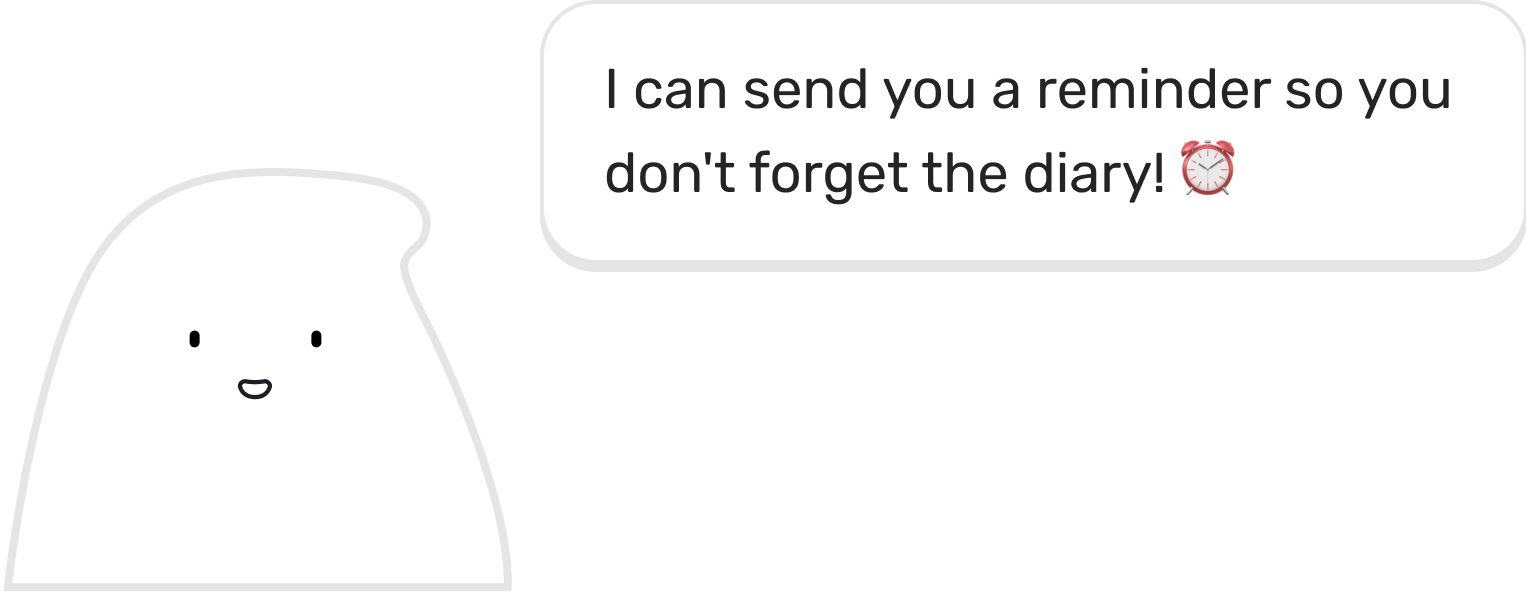
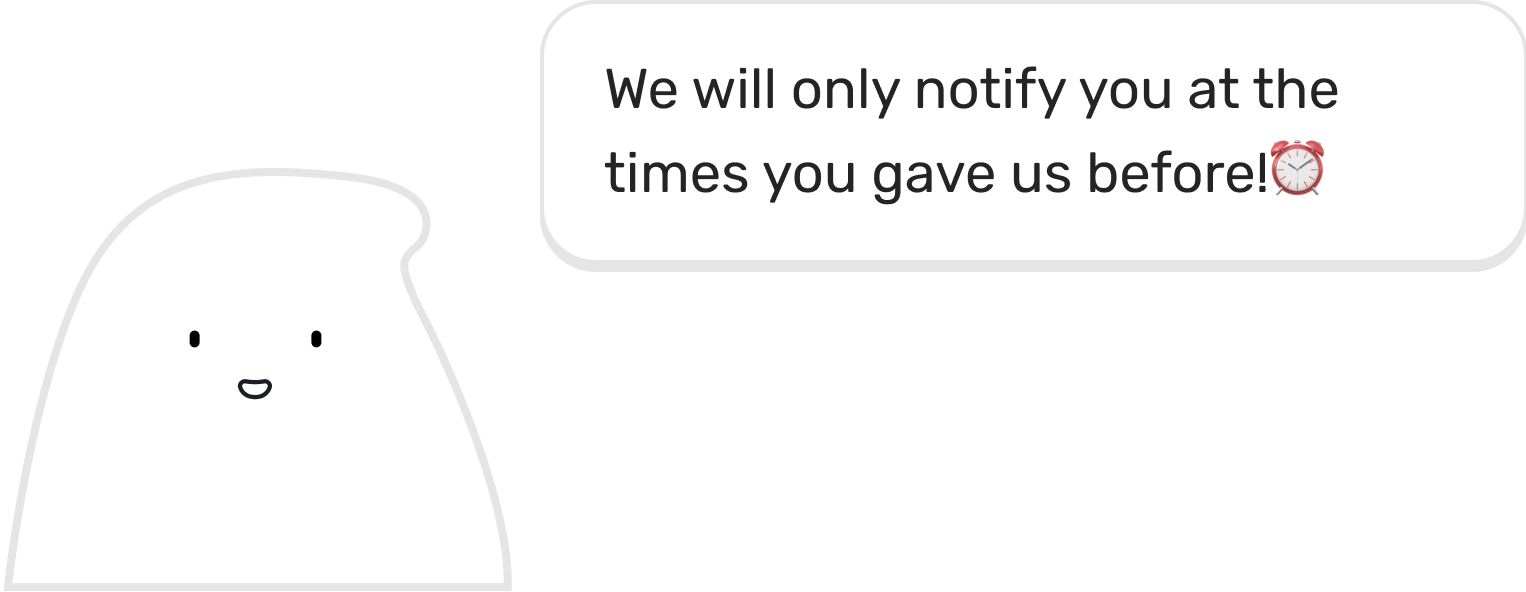
Onboarding Notifications Schedule (#84)
* Create Notifications

We are saving the preferred reminder times in shared preferences and we are using those to create notifications for the diaries

* Cancel Notification

1. Cancel notification with the diary's id, we are creating the notifications with the diaries id which will allow us to cancel those notifications upon submitting the diary.

2. And removed some useless print statements

* Update active_time.png

* added notifications capability;

* Fix

Removed unused imports & Added TimeOfDay package in setup repository

---------

Changed region(s): [[0.3696, 0.2128, 0.8932, 0.3649], [0.4004, 0.0912, 0.9548, 0.2128]]

diff --git a/lib/screens/onboarding/presentation/pages/active_time.dart b/lib/screens/onboarding/presentation/pages/active_time.dart
@@ -1,5 +1,6 @@
 import 'package:audio_diaries_flutter/screens/onboarding/presentation/pages/notification_access.dart';
 import 'package:audio_diaries_flutter/screens/onboarding/presentation/widgets/list_active_times.dart';
+import 'package:audio_diaries_flutter/services/preference_service.dart';
 import 'package:flutter/material.dart';
 
 import '../../../../theme/custom_colors.dart';
@@ -14,6 +15,7 @@ class ActiveTimePage extends StatefulWidget {
 }
 
 class _ActiveTimePageState extends State<ActiveTimePage> {
+  List<TimeOfDay> times = [];
   @override
   Widget build(BuildContext context) {
     final height = MediaQuery.of(context).size.height;
@@ -57,13 +59,8 @@ class _ActiveTimePageState extends State<ActiveTimePage> {
                         child: AvatarBackground(
                             height: height,
                             width: width,
-                            image:
-                                "assets/images/active_time.png",
-                            onContinue: () => Navigator.push(
-                                context,
-                                MaterialPageRoute(
-                                    builder: (context) =>
-                                        const NotificationAccessPage())),
+                            image: "assets/images/active_time.png",
+                            onContinue: () => navigateToNextPage(),
                             children: [
                               Text(
                                 "Reminder Time",
@@ -72,7 +69,7 @@ class _ActiveTimePageState extends State<ActiveTimePage> {
                               const SizedBox(
                                 height: 6,
                               ),
-                              const ListActiveTimes(),
+                              ListActiveTimes(times: times),
                             ]),
                       ),
                     )
@@ -82,5 +79,18 @@ class _ActiveTimePageState extends State<ActiveTimePage> {
             );
           }),
         ));
+  }
+
+  void navigateToNextPage() async {
+    final value = times.map((e) => DateTime(0,0,0, e.hour, e.minute).toString()).toList();
+    await PreferenceService().setStringListPreference(key: "reminder_times", value: value);
+
+
+    if (context.mounted) {
+      Navigator.push(
+          context,
+          MaterialPageRoute(
+              builder: (context) => const NotificationAccessPage()));
+    }
   }
 }

diff --git a/lib/screens/onboarding/presentation/widgets/list_active_times.dart b/lib/screens/onboarding/presentation/widgets/list_active_times.dart
@@ -7,18 +7,21 @@ import 'active_time_tile.dart';
 import '../../../../theme/components/time_picker.dart';
 
 class ListActiveTimes extends StatefulWidget {
-  const ListActiveTimes({super.key});
+  final List<TimeOfDay> times;
+  const ListActiveTimes({super.key, required this.times});
 
   @override
   State<ListActiveTimes> createState() => _ListActiveTimesState();
 }
 
 class _ListActiveTimesState extends State<ListActiveTimes> {
-  List<TimeOfDay> times = [];
+
 
   @override
   void initState() {
-    times.insert(0, fixedTime);
+    if(widget.times.isEmpty){
+      widget.times.insert(0, fixedTime);
+    }
     super.initState();
   }
 
@@ -31,15 +34,16 @@ class _ListActiveTimesState extends State<ListActiveTimes> {
               padding: const EdgeInsets.all(0),
               physics: const NeverScrollableScrollPhysics(),
               shrinkWrap: true,
-              itemCount: times.length,
+              itemCount:  widget.times.length,
               itemBuilder: (context, index) {
                 return Padding(
                   padding: EdgeInsets.only(
-                      bottom: index == times.length - 1 ? 0 : 10.0),
+                      bottom: index ==  widget.times.length - 1 ? 0 : 10.0),
                   child: ActiveTimeTile(
-                    time: times[index],
+                    time:  widget.times[index],
                     delete: () =>
-                        {deleteTime(times[index]), Navigator.pop(context)},
+                        {deleteTime( widget.times[index]), Navigator.pop(context)},
+                    edit: (value) => editTime(index, value),
                   ),
                 );
               }),
@@ -69,19 +73,25 @@ class _ListActiveTimesState extends State<ListActiveTimes> {
               ],
             ));
     if (time != null) {
-      if (!times.contains(time)) {
+      if (! widget.times.contains(time)) {
         setState(() {
-          times.add(time);
+           widget.times.add(time);
         });
       }
     }
   }
 
   void deleteTime(TimeOfDay time) {
-    if (times.length > 1) {
+    if ( widget.times.length > 1) {
       setState(() {
-        times.remove(time);
+         widget.times.remove(time);
       });
     }
+  }
+
+  void editTime(int index, TimeOfDay time) async{
+    setState(() {
+        widget.times[index] = time;
+    });
   }
 }

diff --git a/lib/screens/onboarding/domain/repository/setup_repository.dart b/lib/screens/onboarding/domain/repository/setup_repository.dart
@@ -5,7 +5,9 @@ import 'package:audio_diaries_flutter/core/utils/formatter.dart';
 import 'package:audio_diaries_flutter/core/utils/statuses.dart';
 import 'package:audio_diaries_flutter/screens/diary/domain/repository/diary_repository.dart';
 import 'package:audio_diaries_flutter/services/diary_init.dart';
+import 'package:audio_diaries_flutter/services/notification_service.dart';
 import 'package:audio_diaries_flutter/services/preference_service.dart';
+import 'package:flutter/material.dart';
 import 'package:path_provider/path_provider.dart';
 import 'package:path/path.dart' as p;
 
@@ -137,6 +139,40 @@ class SetupRepository {
         uploadMetaDataS3(code, file);
       } else {
         file.writeAsStringSync(jsonEncode(data));
+      }
+    }
+  }
+
+  /// Creates and schedules notifications for daily diaries.
+  /// This function retrieves a list of daily diaries from the DiaryRepository,
+  /// then retrieves a list of notification times from SharedPreferences using
+  /// PreferenceService. For each specified notification time and each diary,
+  /// it calculates the notification date and time and schedules a notification
+  /// using NotificationService. The notification will remind the user to write
+  /// their daily diary.
+  void createNotifications() async {
+    final diaryRepository = DiaryRepository();
+    final diaries = diaryRepository.getAllDiaries();
+
+    final timesFromString = await PreferenceService()
+        .getStringListPreference(key: 'reminder_times');
+    final times = timesFromString
+            ?.map((e) => TimeOfDay.fromDateTime(DateTime.parse(e)))
+            .toList() ??
+        [];
+
+    for (final time in times) {
+      for (final diary in diaries) {
+        final date = diary.due;
+
+        final notificationDate =
+            DateTime(date.year, date.month, date.day, time.hour, time.minute);
+
+        await NotificationService.createNotification(
+            id: diary.id,
+            title: 'Time for your Daily Diary',
+            body: 'Hi! I am ready to hear from you.',
+            date: notificationDate);
       }
     }
   }

diff --git a/lib/services/notification_service.dart b/lib/services/notification_service.dart
@@ -93,6 +93,7 @@ class NotificationService {
   /// If permission is not granted, the function returns `false`.
   ///
   /// Parameters:
+  /// - [id]: The unique identifier of the scheduled notification
   /// - [title]: The title of the notification.
   /// - [body]: The body of the notification.
   /// - [date]: The date at which the notification should be scheduled.
@@ -111,7 +112,8 @@ class NotificationService {
   /// );
   /// ```
   static Future<bool> createNotification(
-      {required final String title,
+      {final int? id,
+      required final String title,
       required final String body,
       required final DateTime date,
       Map<String, String>? payload}) async {
@@ -121,7 +123,7 @@ class NotificationService {
     return hasPermission
         ? await awesomeNotifications.createNotification(
             content: NotificationContent(
-                id: Random().nextInt(100000),
+                id: id ?? Random().nextInt(100000),
                 channelKey: 'audio-diaries',
                 title: title,
                 body: body,
@@ -157,6 +159,25 @@ class NotificationService {
   /// ```
   static Future<void> cancelAllNotifications() async =>
       await AwesomeNotifications().cancelAllSchedules();
+
+  /// Cancels a scheduled notification with the specified [id].
+  ///
+  /// This function allows you to programmatically cancel a previously scheduled
+  /// notification using its unique identifier [id]. It utilizes the
+  /// `AwesomeNotifications` library to perform the cancellation.
+  ///
+  /// Parameters:
+  ///   - [id]: The unique identifier of the scheduled notification to be canceled.
+  ///
+  /// Usage Example:
+  /// ```dart
+  /// await cancelNotification(123); // Cancels the notification with ID 123.
+  /// ```
+  ///
+  /// Note: This function is asynchronous, so it should be awaited when called.
+
+  static Future<void> cancelNotification(int id) async =>
+      await AwesomeNotifications().cancelSchedule(id);
 
   /// Reschedules a notification with updated information.
   ///

diff --git a/lib/theme/components/time_picker.dart b/lib/theme/components/time_picker.dart
@@ -22,10 +22,14 @@ class _CustomTimePickerState extends State<CustomTimePicker> {
   void initState() {
     _date = widget.date ?? const TimeOfDay(hour: 0, minute: 0);
     hoursController = FixedExtentScrollController(
-        initialItem: _date.hour > 12 ? _date.hour - 13 : _date.hour - 1);
-    minutesController = FixedExtentScrollController(initialItem: _date.minute);
-    periodController =
-        FixedExtentScrollController(initialItem: _date.hour > 12 ? 1 : 0);
+      initialItem: (_date.hour % 12) == 0 ? 12 : (_date.hour % 12) - 1,
+    );
+    minutesController = FixedExtentScrollController(
+      initialItem: _date.minute,
+    );
+    periodController = FixedExtentScrollController(
+      initialItem: (_date.hour >= 12) ? 1 : 0,
+    );
     super.initState();
   }
 
@@ -177,12 +181,13 @@ class _CustomTimePickerState extends State<CustomTimePicker> {
   }
 
   void save() {
-    if (periodController.selectedItem == 1) {
-      _date = _date.replacing(hour: _date.hour + 12);
+    if (periodController.selectedItem == 1 && _date.hour < 12) {
+      // If PM is selected and the hour is before noon, add 12 hours.
+      _date = TimeOfDay(hour: _date.hour + 12, minute: _date.minute);
     } else if (periodController.selectedItem == 0 && _date.hour >= 12) {
-      _date = _date.replacing(hour: _date.hour - 12);
+      // If AM is selected and the hour is 12 or greater, subtract 12 hours.
+      _date = TimeOfDay(hour: _date.hour - 12, minute: _date.minute);
     }
-
     Navigator.pop(context, _date);
   }
 }

diff --git a/lib/screens/diary/domain/repository/summary_repository.dart b/lib/screens/diary/domain/repository/summary_repository.dart
@@ -2,6 +2,7 @@ import 'package:audio_diaries_flutter/core/network/upload.dart';
 import 'package:audio_diaries_flutter/screens/onboarding/domain/repository/setup_repository.dart';
 
 import '../../../../core/utils/statuses.dart';
+import '../../../../services/notification_service.dart';
 import '../../data/diary.dart';
 import '../../data/prompt.dart';
 import 'answer_repository.dart';
@@ -94,9 +95,12 @@ class SummaryRepository {
       final participant = setupRepository.getParticipant();
       final uploaded = await upload(participant!.studyCode,diary);
 
+
       if (uploaded) {
         diary.status = DiaryStatus.submitted;
         diaryRepository.updateDiary(diary);
+
+        await NotificationService.cancelNotification(diary.id);
 
         //Update the nextStudy date- TBD with provision of study_start_date
         DateTime now = DateTime.now();

diff --git a/lib/screens/onboarding/presentation/pages/notification_access.dart b/lib/screens/onboarding/presentation/pages/notification_access.dart
@@ -1,3 +1,4 @@
+import 'package:audio_diaries_flutter/screens/onboarding/domain/repository/setup_repository.dart';
 import 'package:audio_diaries_flutter/screens/onboarding/presentation/pages/mic_access.dart';
 import 'package:audio_diaries_flutter/theme/components/buttons.dart';
 import 'package:audio_diaries_flutter/theme/custom_typography.dart';
@@ -68,6 +69,9 @@ class _NotificationAccessPageState extends State<NotificationAccessPage> {
         .setBoolPreference(key: 'notification_requested', value: true);
 
     if (results.isGranted) {
+      final repository = SetupRepository();
+      repository.createNotifications();
+      
       if (context.mounted) {
         Navigator.push(context,
             MaterialPageRoute(builder: (context) => const MicAccessPage()));

diff --git a/lib/main.dart b/lib/main.dart
@@ -3,7 +3,6 @@ import 'package:audio_diaries_flutter/screens/diary/presentation/cubit/diary/dia
 import 'package:audio_diaries_flutter/screens/diary/presentation/cubit/diary/summary_cubit.dart';
 import 'package:audio_diaries_flutter/screens/diary/presentation/pages/new_diary.dart';
 import 'package:audio_diaries_flutter/screens/home/presentation/pages/homepage.dart';
-import 'package:audio_diaries_flutter/screens/onboarding/domain/repository/setup_repository.dart';
 import 'package:audio_diaries_flutter/screens/onboarding/presentation/cubit/login/login_cubit.dart';
 import 'package:audio_diaries_flutter/screens/onboarding/presentation/cubit/setup/setup_cubit.dart';
 import 'package:audio_diaries_flutter/screens/settings/presentation/settings.dart';

diff --git a/lib/screens/onboarding/presentation/widgets/active_time_tile.dart b/lib/screens/onboarding/presentation/widgets/active_time_tile.dart
@@ -7,7 +7,8 @@ import '../../../../theme/components/time_picker.dart';
 class ActiveTimeTile extends StatefulWidget {
   final TimeOfDay time;
   final VoidCallback delete;
-  const ActiveTimeTile({super.key, required this.time, required this.delete});
+  final ValueChanged<TimeOfDay>? edit;
+  const ActiveTimeTile({super.key, required this.time, required this.delete, this.edit});
 
   @override
   State<ActiveTimeTile> createState() => _ActiveTimeTileState();
@@ -88,6 +89,7 @@ class _ActiveTimeTileState extends State<ActiveTimeTile> {
         timeOfDay = time;
         getPeriod(timeOfDay.hour);
       });
+       widget.edit!(timeOfDay);
     }
   }
 }

diff --git a/lib/screens/diary/presentation/widgets/my_responses.dart b/lib/screens/diary/presentation/widgets/my_responses.dart
@@ -1,5 +1,3 @@
-import 'dart:ffi';
-
 import 'package:audio_diaries_flutter/core/utils/statuses.dart';
 import 'package:flutter/material.dart';
 import 'package:flutter_bloc/flutter_bloc.dart';

diff --git a/lib/screens/diary/data/option.dart b/lib/screens/diary/data/option.dart
@@ -1,5 +1,3 @@
-import 'package:audio_diaries_flutter/core/utils/types.dart';
-
 import 'options.dart';
 
 class Option {
